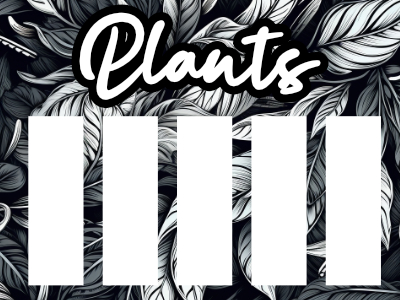
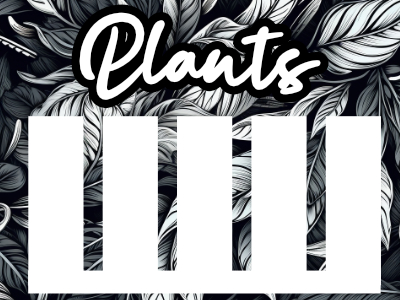
image

Changed region(s): [[0.06, 0.9, 0.96, 0.99]]

diff --git a/test.py b/test.py
@@ -119,7 +119,7 @@ for index, data in enumerate(mqtt_data):
     label_width, label_height = draw.textsize(short_topic, font)
     label_x = x + (bar_width - label_width) / 2
     label_y = inky_display.height - 22 + 5
-    draw.text((label_x, label_y), short_topic, font=font, fill=inky_display.WHITE)
+    draw.text((label_x, label_y), short_topic, font=font, fill=inky_display.BLACK)
 
 
 
